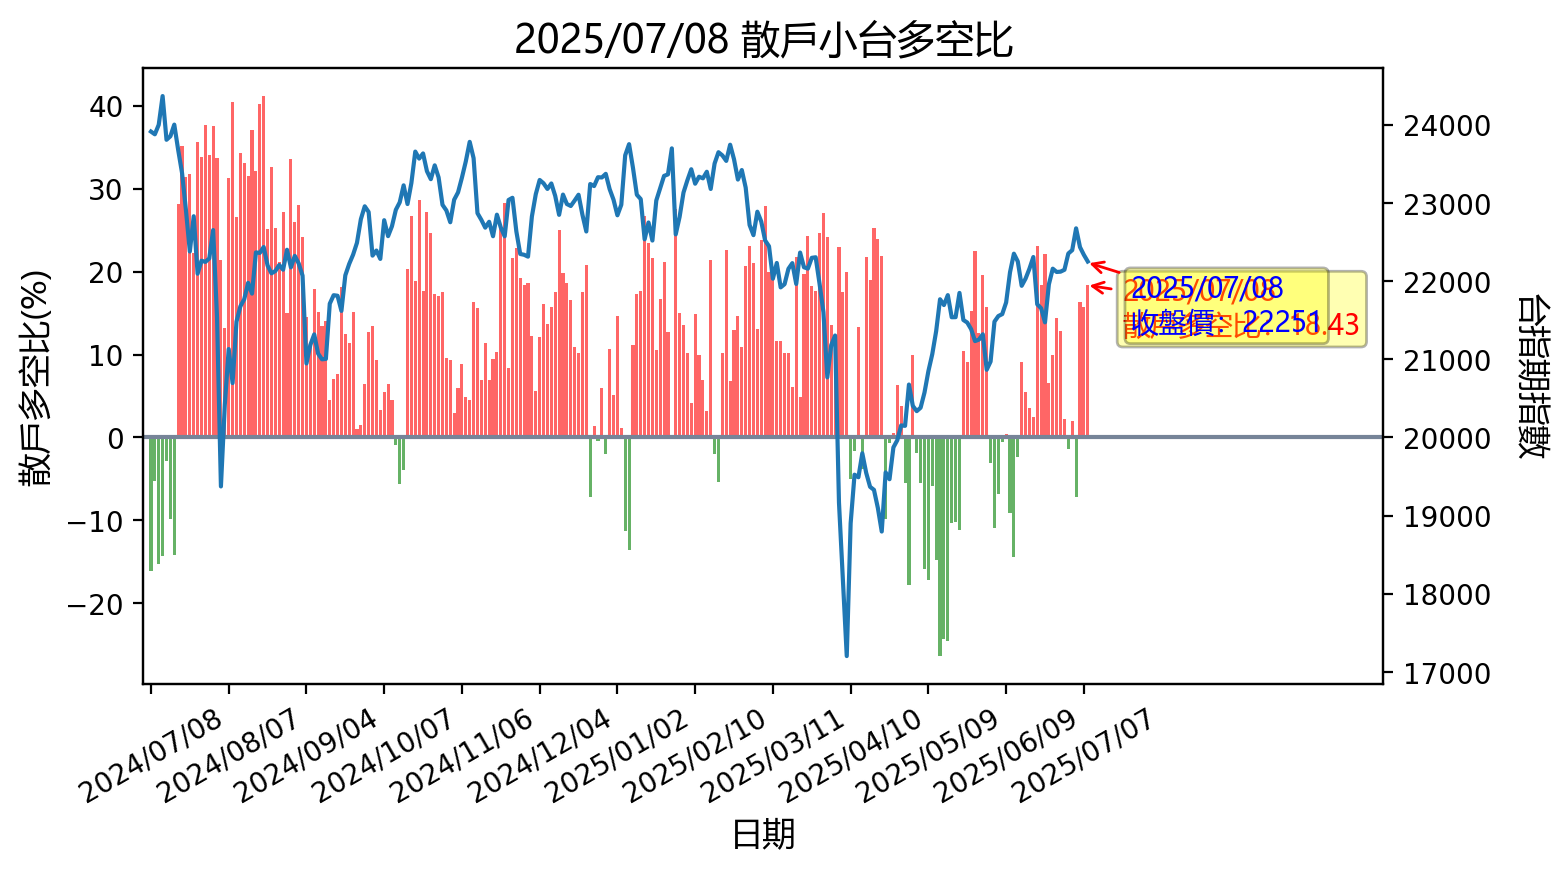
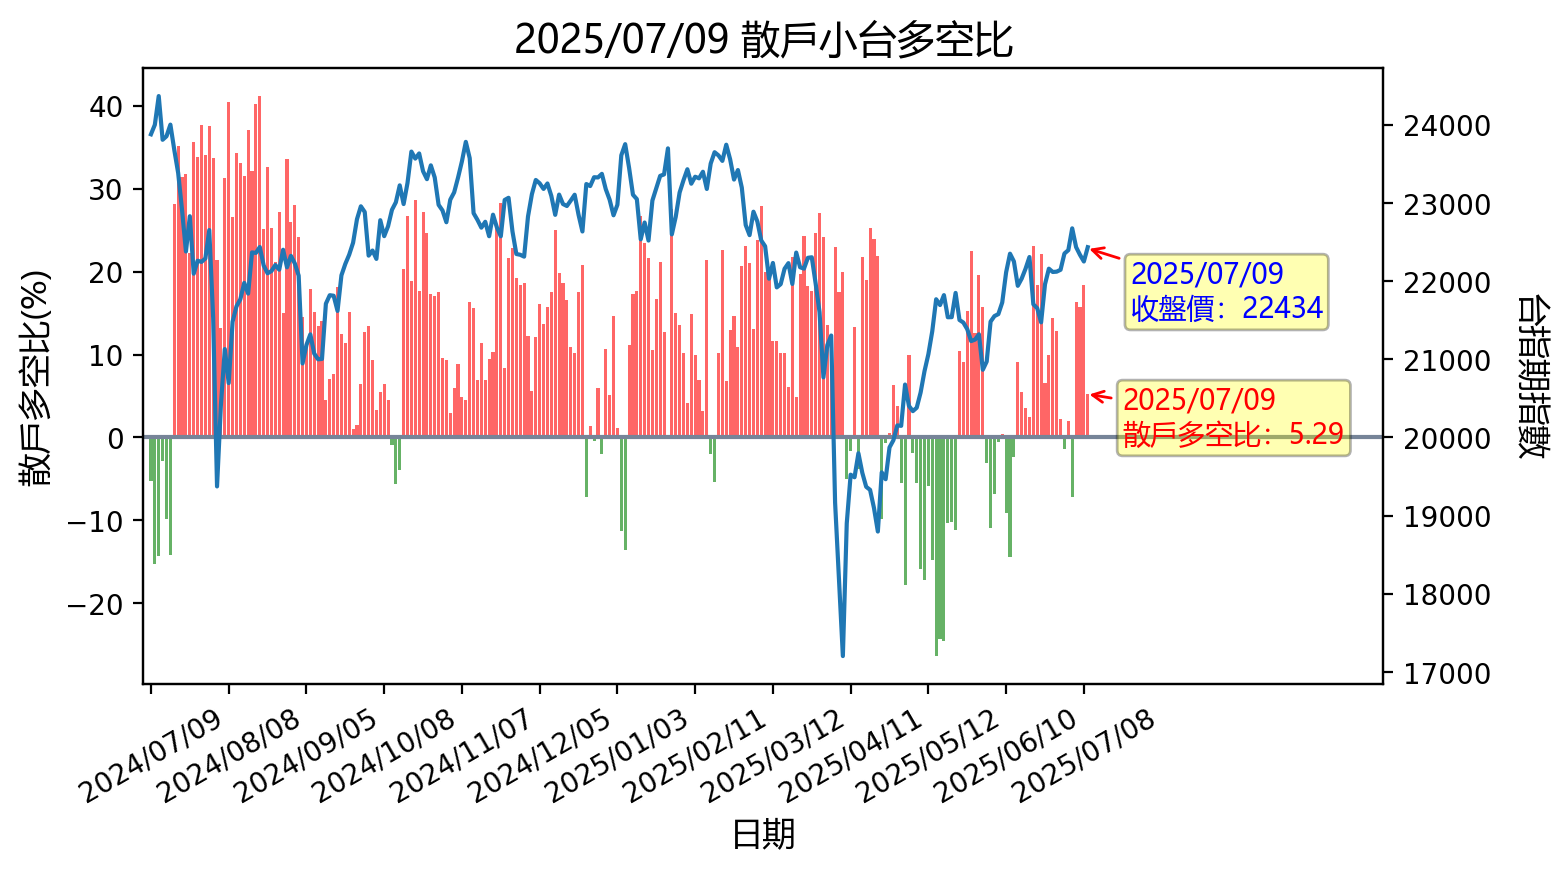
更新時間: Wed Jul  9 16:44:10 CST 2025

diff --git a/README.md b/README.md
@@ -1,12 +1,12 @@
-## 20250708 台指期「預估換倉成本」
+## 20250709 台指期「預估換倉成本」
 ![](images/txfcost.png)
 
-## 20250708 台指期「散戶小台多空比」
+## 20250709 台指期「散戶小台多空比」
 ![](images/bbiri.png)
 
-## 20250708 台指選擇權「Put/Call Ratios」
+## 20250709 台指選擇權「Put/Call Ratios」
 ![](images/pcratio.png)
 
-## 20250708 台指期「大額交易人」
+## 20250709 台指期「大額交易人」
 ![](images/blocktrade.png)
 
